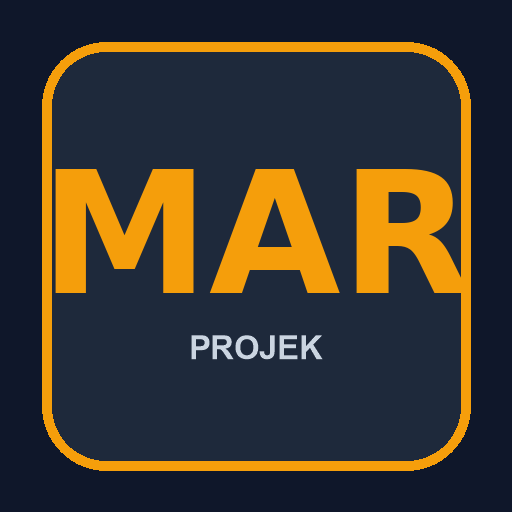
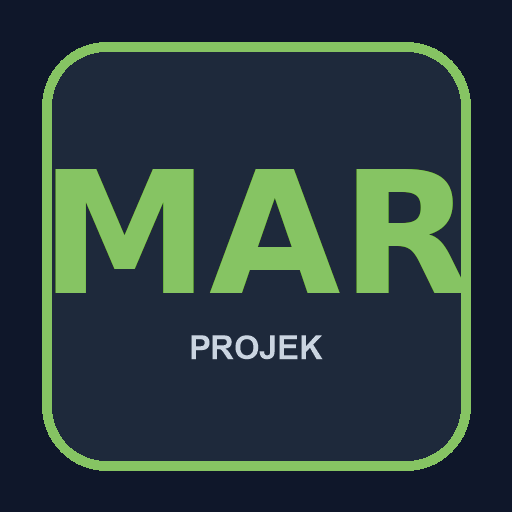
style: perbarui warna ikon ke hijau zaitun (#4F633F) dan naikkan cache ke projek-v4

Changed region(s): [[0.0625, 0.0625, 0.875, 0.875], [0.125, 0.125, 0.9375, 0.9375]]

diff --git a/app.js b/app.js
@@ -18,7 +18,7 @@ var CONFIG = { API_URL: 'https://script.google.com/macros/s/AKfycbxh4086qGRZGDqA
 // service worker yang benar-benar aktif (lihat syncVersionFromCache).
 // Dengan begitu rilis cukup mengubah CACHE di sw.js; angka di sini tak bisa lagi
 // tertinggal diam-diam seperti dulu (APP_VERSION v26 vs CACHE v34).
-var APP_VERSION = 'projek-v3'; // cadangan; nilai sebenarnya dibaca dari CACHE sw.js (syncVersionFromCache)
+var APP_VERSION = 'projek-v4'; // cadangan; nilai sebenarnya dibaca dari CACHE sw.js (syncVersionFromCache)
 
 // ── Pembaruan versi otomatis ────────────────────────────────────────────────
 // sw.js sudah skipWaiting()+clients.claim(), jadi versi baru mengambil alih

diff --git a/sw.js b/sw.js
@@ -1,4 +1,4 @@
-var CACHE = 'mar-projek-v3';
+var CACHE = 'mar-projek-v4';
 var ASSETS = ['./', './index.html', './app.js', './manifest.json', './icon-192.png', './icon-512.png'];
 self.addEventListener('install', function(e) {
   // cache:'reload' — WAJIB. addAll() memakai cache HTTP biasa, jadi app.js bisa
